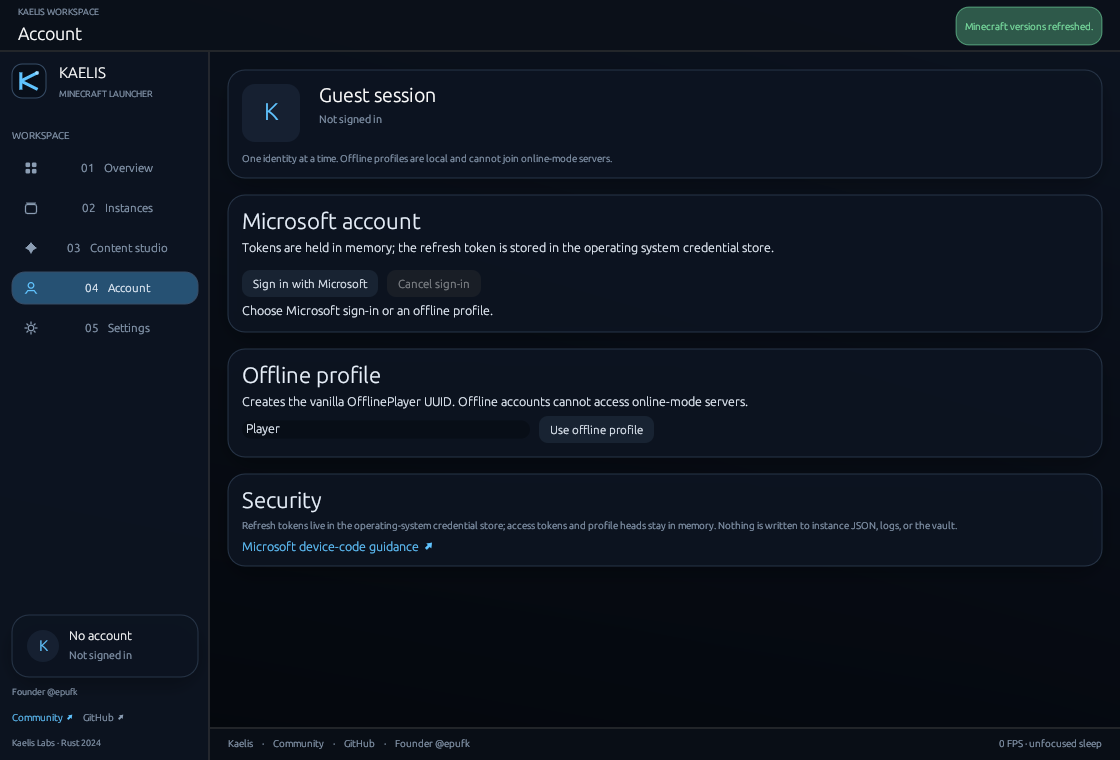
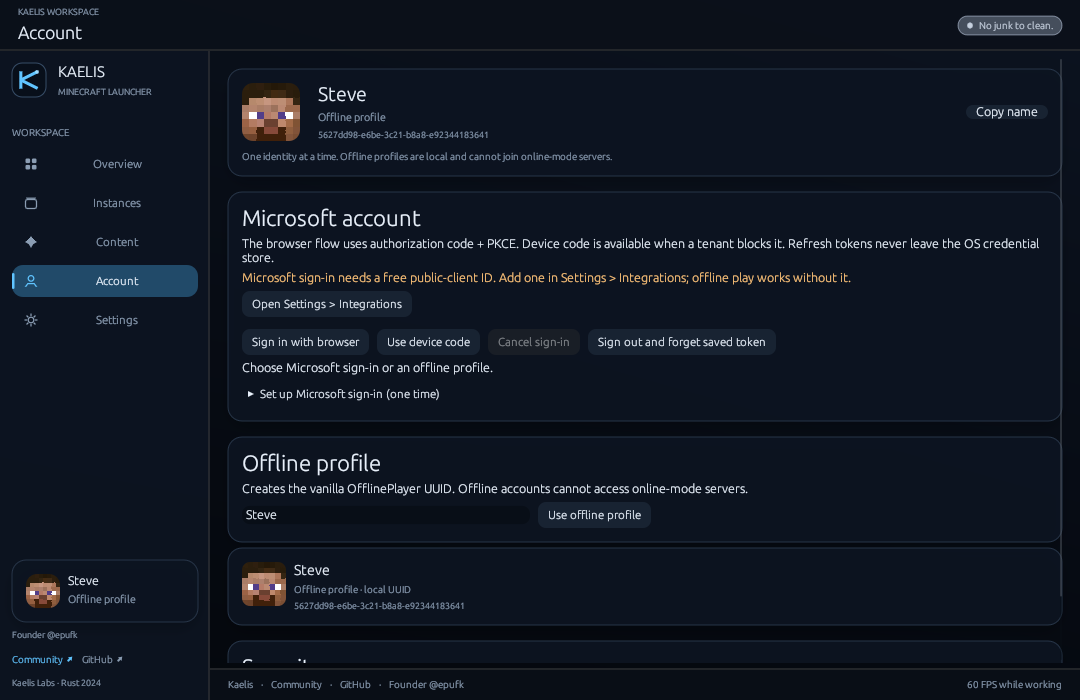
Sharpen name conflicts, scaling copy, and package docs
Name the instance that actually owns a conflicting name, refresh the interface
scale screenshot, and replace the stale portable readme that still promised
worlds.

🤖 Generated with Codebuff

diff --git a/crates/kaelis-gui/src/lib.rs b/crates/kaelis-gui/src/lib.rs
@@ -4689,9 +4689,7 @@ impl KaelisApp {
                 ui.set_width(ui.available_width());
                 ui.heading("Create an instance");
                 let conflict = instance_name_conflict(&self.instances, &self.new_instance_name)
-                    .map(|instance| {
-                        name_conflict_text(self.new_instance_name.trim(), instance)
-                    });
+                    .map(|instance| name_conflict_text(self.new_instance_name.trim(), instance));
                 let name_taken = conflict.is_some();
                 let busy = self.installing_instance.is_some() || self.installing_runtime.is_some();
                 let ready = !self.new_instance_name.trim().is_empty()
@@ -7123,14 +7121,11 @@ impl KaelisApp {
                 );
                 let fps = self.governor.target_fps();
                 ui.label(
-                    egui::RichText::new(format!(
-                        "UI {} · focused only",
-                        if fps == 0 {
-                            "idle".to_owned()
-                        } else {
-                            format!("{fps} FPS")
-                        }
-                    ))
+                    egui::RichText::new(if fps == 0 {
+                        "UI idle · event-driven".to_owned()
+                    } else {
+                        format!("UI {fps} FPS · while working")
+                    })
                     .size(9.5)
                     .color(MUTED),
                 );

diff --git a/site/downloads/README.md b/site/downloads/README.md
@@ -1,113 +1,35 @@
-<div align="center">
+# Kaelis — portable
 
-<img src="site/assets/kaelis-mark.svg" width="88" alt="Kaelis mark">
+**Minecraft, composed.** A native Rust launcher for instances, modpacks, mods,
+resource packs, and shaders.
 
-# Kaelis
+## Run it
 
-**Minecraft, composed.** A native Rust launcher with one calm library for
-instances, mods, resource packs, shaders, and worlds.
+1. Keep `Kaelis.exe` in any folder you can write to (a USB stick works).
+2. Double-click it. There is no installer, no runtime to add, and no first-run
+   download of the launcher itself.
 
-[Website](site/index.html) · [Releases](https://github.com/epufk/kaelis/releases) · [Issues](https://github.com/epufk/kaelis/issues) · [Community](https://discord.gg/fvrdYzrQjq)
+Windows 10/11 x64. The launcher stores instances, settings, and the managed
+Java runtime under `%APPDATA%\kaelis\Kaelis\data`; set `KAELIS_DATA_DIR` to keep
+everything beside the executable instead.
 
-</div>
+## What is inside
 
-<p align="center">
-  <img src="screenshots/overview.png" alt="Kaelis overview: active instance, content counts, account, and release status" width="960">
-</p>
+- One Content tab for Modrinth and CurseForge: mods, resource packs, shaders,
+  and `.mrpack` modpacks, with `Install` and one-click `Erase`.
+- Modpacks become their own instances, including the loader they ask for.
+- Java is provisioned automatically the first time you press Play, matched to
+  the Minecraft version.
+- Offline profiles show the real Steve head; Microsoft sign-in shows your own
+  skin.
+- Instances carry per-instance heap, JVM arguments, window rules, quick join,
+  artwork, and notes.
 
-Kaelis is a local-first desktop launcher for Windows 10 and 11. It pairs a
-Rust workspace with a compact egui interface: no bundled browser, no JavaScript
-runtime, no telemetry, and no background analytics.
+## Links
 
-## What it does
-
-- **One content studio.** Browse and install mods, resource packs, shader
-  packs, and worlds from Modrinth and CurseForge without leaving the app.
-- **Loader-aware installs.** Mod dependency graphs are resolved breadth-first
-  with cycle detection, strict game-version/loader validation, and a bounded
-  request budget.
-- **Duplicate control.** After an install, the optional repair pass disables
-  older jars that claim the same primary mod id, but only when every other
-  provided id remains satisfied.
-- **Instance workspace.** Per-instance Java runtime, heap sizing, JVM/game
-  arguments, environment, window rules, quick join, artwork, notes, groups, and
-  explicit pre-launch/post-exit hooks. Cards show a cached notes preview so
-  each instance carries its own description at a glance.
-- **Accounts that stay put.** Microsoft device-code sign-in with refresh tokens
-  in the OS credential store, plus a clearly labelled offline profile. Profile
-  heads and access tokens are held in memory only.
-- **Managed runtime.** The launcher can provision a matching Java runtime for
-  the selected Minecraft version instead of relying on a hand-built install.
-- **Honest logging.** The instance log is a bounded in-memory ring buffer. It
-  is discarded with the process and exported only when the user asks.
-
-## Quick start
-
-Requirements: Windows 10/11, Rust 1.85 or newer, and a C/C++ linker for the
-selected Rust target.
-
-```bash
-git clone https://github.com/epufk/kaelis.git
-cd kaelis
-cargo build --release -p kaelis-launcher
-```
-
-Run `target/release/kaelis.exe`, or launch a saved instance directly:
-
-```bash
-kaelis --play fabric-1-21
-```
-
-Both Modrinth and CurseForge are supported. CurseForge searches require an API
-key; add it in **Settings → Integrations**. It is stored in the operating-system
-credential store, never in instance JSON or the repository.
-
-## Workspace
-
-```text
-crates/
-  kaelis-core/       brand, instance metadata, JVM flags, RAM-only log,
-                     single-instance mutex, fileless memory sweeper
-  kaelis-api/        Mojang versions, Modrinth, CurseForge, downloads,
-                     mrpack import, repair, hashing, auth, launch pipeline
-  kaelis-gui/        egui interface, content studio, instance editor, tray
-  kaelis-launcher/   CLI and desktop entry point
-site/                static product site and brand assets
-```
-
-Instances are plain JSON under the platform data directory
-(`%APPDATA%\kaelis\Kaelis\data\instances` on Windows by default). Set
-`KAELIS_DATA_DIR` to relocate all launcher state.
-
-## Design rules
-
-- Native first: every hot path stays in Rust; the UI is immediate-mode and
-  paints only when needed.
-- Bounded everything: image decodes, log lines, dependency walks, download
-  concurrency, archive extraction, and retry loops all have hard limits.
-- Explicit automation: repair and duplicate resolution are visible settings
-  with conservative safety proofs, never silent mutations.
-- No hidden state: no cache daemon, no persistent event log, no telemetry endpoint.
-- Small releases: fat LTO, one codegen unit, stripped symbols, abort on panic.
-
-## Verification
-
-```bash
-cargo test --workspace
-cargo clippy --workspace --all-targets -- -D warnings
-cargo fmt --all -- --check
-```
-
-## Website
-
-The product site is a single dependency-free HTML document in
-[`site/`](site/index.html). The Pages workflow at
-[`.github/workflows/pages.yml`](.github/workflows/pages.yml) deploys that
-directory on a push to `main`; enable GitHub Pages → GitHub Actions once in the
-repository settings. Brand artwork lives in
-[`site/assets/kaelis-mark.svg`](site/assets/kaelis-mark.svg).
-
-## License
+- Source and releases: <https://github.com/epufk/kaelis>
+- Issues: <https://github.com/epufk/kaelis/issues>
+- Community: <https://discord.gg/fvrdYzrQjq>
 
 MIT · Kaelis Labs · Founder [@epufk](https://github.com/epufk)
 

diff --git a/README.md b/README.md
@@ -28,7 +28,11 @@ instances, modpacks, mods, resource packs, and shaders.
 </p>
 
 <p align="center">
-  <img src="screenshots/settings.png" alt="Kaelis settings: compact performance, automation, integrations, and community groups" width="960">
+  <img src="screenshots/settings.png" alt="Kaelis settings: interface scale, compact performance, automation, integrations, and community groups" width="960">
+</p>
+
+<p align="center">
+  <img src="screenshots/account.png" alt="Kaelis Account tab: an offline Steve profile with the vanilla skin head, Microsoft device sign-in, and offline UUID" width="960">
 </p>
 
 Kaelis is a local-first desktop launcher for Windows 10 and 11. It pairs a
@@ -75,7 +79,9 @@ runtime, no telemetry, and no background analytics.
 - **Creation that explains itself.** The Instances form states what will be
   installed (`Minecraft 26.3 · fabric · mods supported`), offers the newest
   release in one click, and refuses a duplicate or empty name before any
-  download starts.
+  download starts. Names are compared against the instance that actually owns
+  them, so the warning names the collision instead of blocking unrelated names;
+  non-Latin names get a stable hashed folder id rather than a false conflict.
 - **Loader-aware installs.** Mod dependency graphs are resolved breadth-first
   with cycle detection, strict game-version/loader validation, and a bounded
   request budget.
@@ -97,16 +103,23 @@ runtime, no telemetry, and no background analytics.
   deleted from every instance at startup, with a `Clean junk now` button for an
   immediate pass. Saves, mods, configs, resource packs, shaders, and options are
   outside the cleaner by design, so the pass can never cost a world or a jar.
-- **Settings that stay small.** One screen, four compact groups: heap and JVM
-  arguments with an explicit apply target, launch automation and cleanup,
-  provider keys, and a community card with Website and Discord buttons, an
-  `Open data folder` shortcut, and `Copy diagnostics` (version, OS, paths,
-  instance summary — never tokens, keys, or account ids).
+- **Settings that stay small.** One screen, five compact groups: interface
+  scale (80–200 %, also `Ctrl` `+`/`-`/`0`), heap and JVM arguments with an
+  explicit apply target, launch automation and cleanup, provider keys, and a
+  community card with Website and Discord buttons, an `Open data folder`
+  shortcut, and `Copy diagnostics` (version, OS, paths, instance summary —
+  never tokens, keys, or account ids).
 - **Accounts that stay put.** Microsoft device-code sign-in with refresh tokens
-  in the OS credential store, plus a clearly labelled offline profile. Profile
-  heads and access tokens are held in memory only.
-- **Managed runtime.** The launcher can provision a matching Java runtime for
-  the selected Minecraft version instead of relying on a hand-built install.
+  in the OS credential store, plus a clearly labelled offline profile that
+  survives a restart. Offline accounts wear the real Steve head — the vanilla
+  skin's 8×8 face, drawn as a nearest-neighbour texture, not a lookalike —
+  while Microsoft accounts use their own skin. Profile heads and access tokens
+  are held in memory only.
+- **Managed runtime, used automatically.** Pressing Play on an instance with
+  no Java installs the Mojang runtime that the version metadata asks for (into
+  `runtime/<component>/<version>` inside the instance) and then launches with
+  it. An explicit Java path accepts either `java.exe` or a JDK home. If nothing
+  can be started, the error says so instead of "program not found".
 - **Honest logging.** The instance log is a bounded in-memory ring buffer. It
   is discarded with the process and exported only when the user asks.
 
@@ -158,7 +171,8 @@ own single-instance guard, so a portable copy never blocks the installed one.
 ## Design rules
 
 - Native first: every hot path stays in Rust; the UI is immediate-mode and
-  paints only when needed.
+  paints only when needed — forced repaints run at 60 FPS only while an install
+  or progress bar is on screen, and an idle launcher is fully event-driven.
 - Bounded everything: image decodes, log lines, dependency walks, download
   concurrency, archive extraction, and retry loops all have hard limits.
 - One pass per download: SHA-1 is computed from the stream while bytes are
